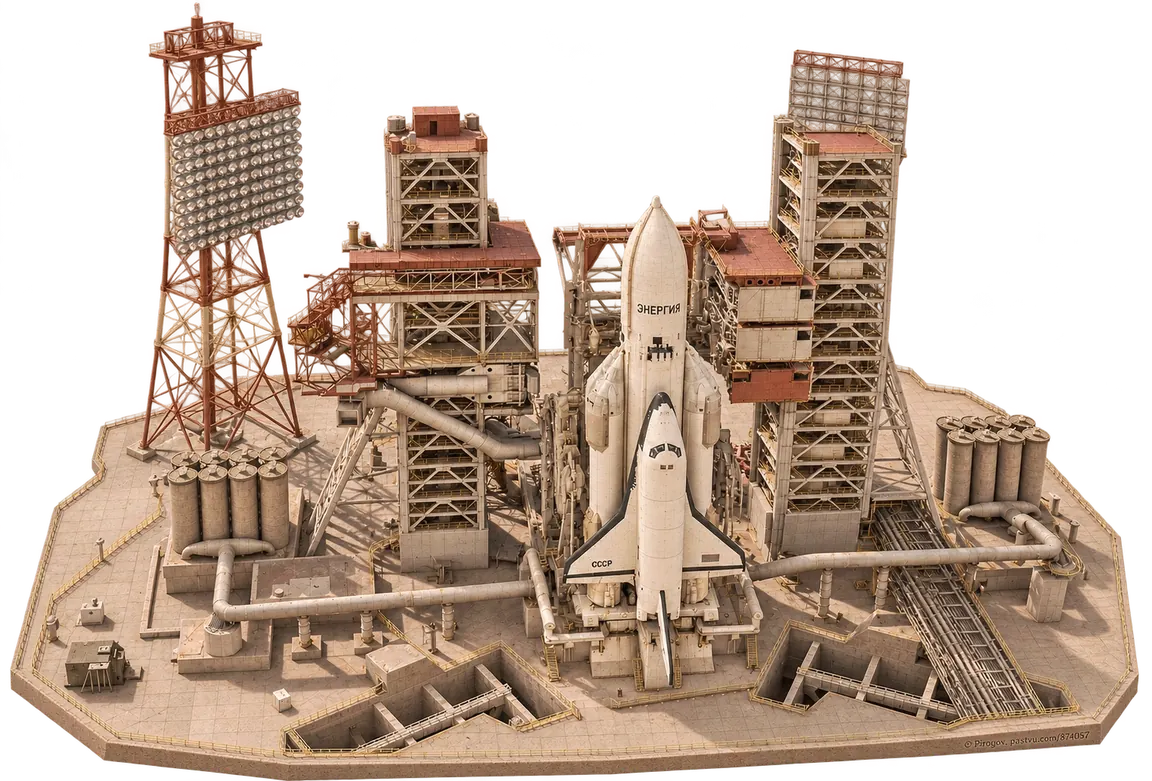
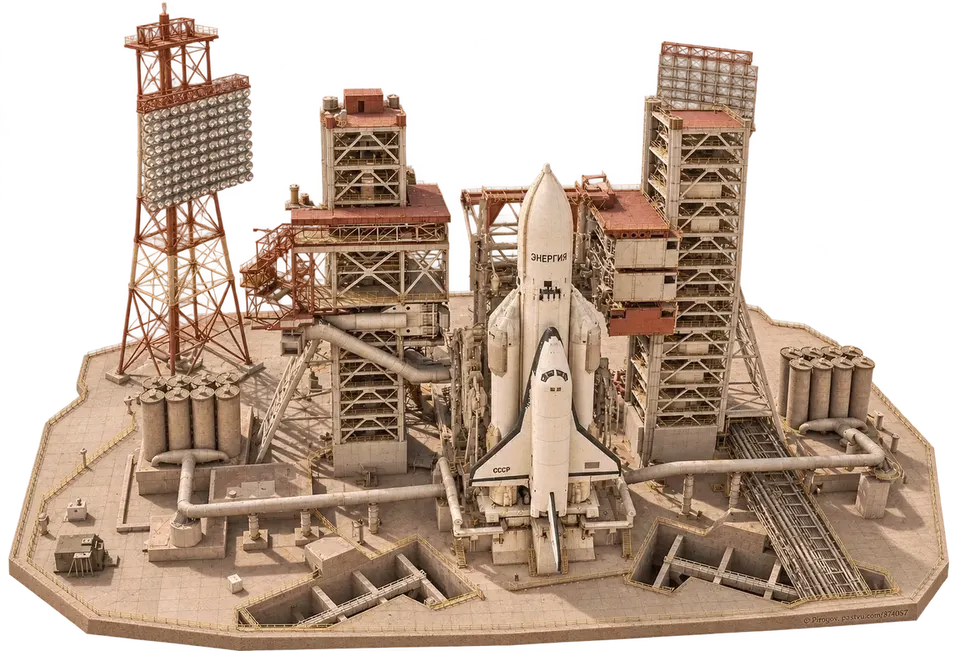
Optimize preloader images and match slogan to status font

Changed region(s): [[0.8438, 0.8602, 0.875, 0.8909]]

diff --git a/preloader.html b/preloader.html
@@ -4,12 +4,12 @@
 <meta name="robots" content="noindex"><meta name="theme-color" content="#f3f0e7">
 <title>Гранд-макет Байконур — экран загрузки</title>
 <meta name="description" content="Гранд-макет Байконур: интерактивный музей 3D. Предпросмотр экрана загрузки с тематической галереей.">
-<link rel="preload" as="image" href="./assets/preloader/soyuz-launch-20261103.webp" type="image/webp" fetchpriority="high">
+<link rel="preload" as="image" href="./assets/preloader/soyuz-launch-20261103.webp?v=20261114" type="image/webp" fetchpriority="high">
 <link rel="preload" as="style" href="https://fonts.googleapis.com/css2?family=Montserrat:wght@400;500;600;700;800;900&amp;display=swap" onload="this.onload=null;this.rel='stylesheet'">
 <style>@font-face{font-family:'Bounded';src:url('https://cdn.jsdelivr.net/gh/churkinvlad/Bounded@main/Variable/Bounded-Variable.ttf') format('truetype');font-style:normal;font-weight:200 900;font-display:swap;}
 *{box-sizing:border-box}html,body{margin:0;height:100%;background:#f3f0e7;color:#10242d;font-family:Montserrat,Arial,sans-serif}body{overflow:hidden}
 </style>
-<link rel="stylesheet" href="./src/museum-preloader.css?v=20261105-preloader-gallery-v16">
+<link rel="stylesheet" href="./src/museum-preloader.css?v=20261114-preloader-optimized-v17">
 
 </head><body>
 <section id="museumLoading" data-preview="true" class="museum-loading preloader preloader--gallery" data-state="loading" data-launch-step="0" data-motion="running" aria-label="Предпросмотр прелоадера Байконура">
@@ -49,12 +49,12 @@
           </div>
         </header>
         <div id="museumPreloaderGallery" class="preloader__gallery" aria-hidden="true">
-          <img class="preloader__image is-active" data-image="0" src="./assets/preloader/soyuz-launch-20261103.webp" width="1152" height="768" alt="" decoding="async" loading="eager" fetchpriority="high">
-          <img class="preloader__image" data-image="1" src="./assets/preloader/energia-buran-20261103.webp" width="1152" height="781" alt="" decoding="async" fetchpriority="low">
-          <img class="preloader__image" data-image="2" src="./assets/preloader/tracking-station-20261103.webp" width="1152" height="576" alt="" decoding="async" fetchpriority="low">
-          <img class="preloader__image" data-image="3" src="./assets/preloader/proton-rollout-20261103.webp" width="1152" height="768" alt="" decoding="async" fetchpriority="low">
-          <img class="preloader__image" data-image="4" src="./assets/preloader/launch-complex-20261105.webp" width="1573" height="1000" alt="" decoding="async" fetchpriority="low">
-          <img class="preloader__image" data-image="5" src="./assets/preloader/buran-hangar-20261105.webp" width="1672" height="941" alt="" decoding="async" fetchpriority="low">
+          <img class="preloader__image is-active" data-image="0" src="./assets/preloader/soyuz-launch-20261103.webp?v=20261114" width="960" height="640" alt="" decoding="async" loading="eager" fetchpriority="high">
+          <img class="preloader__image" data-image="1" src="./assets/preloader/energia-buran-20261103.webp?v=20261114" width="960" height="651" alt="" decoding="async" fetchpriority="low">
+          <img class="preloader__image" data-image="2" src="./assets/preloader/tracking-station-20261103.webp?v=20261114" width="960" height="480" alt="" decoding="async" fetchpriority="low">
+          <img class="preloader__image" data-image="3" src="./assets/preloader/proton-rollout-20261103.webp?v=20261114" width="960" height="640" alt="" decoding="async" fetchpriority="low">
+          <img class="preloader__image" data-image="4" src="./assets/preloader/launch-complex-20261105.webp?v=20261114" width="960" height="610" alt="" decoding="async" fetchpriority="low">
+          <img class="preloader__image" data-image="5" src="./assets/preloader/buran-hangar-20261105.webp?v=20261114" width="960" height="540" alt="" decoding="async" fetchpriority="low">
         </div>
       </div>
       <p id="museumPreloaderSlogan" class="preloader__claim">КОСМОС НАЧИНАЕТСЯ С НАЗЕМКИ</p>

diff --git a/workshop.html b/workshop.html
@@ -1,7 +1,7 @@
 <!doctype html><html lang="ru"><head><!-- EVENING_NAVIGATION_V1 --><script>/* PUBLIC_MUSEUM_DEFAULT */if((location.pathname.endsWith('/')||location.pathname.endsWith('/index.html'))&&!location.search&&!location.hash)location.replace('./museum.html');</script><meta charset="utf-8"><script>if(location.protocol==='http:'&&location.hostname==='museum.rockettrip.space'){const secureUrl=new URL(location.href);secureUrl.protocol='https:';location.replace(secureUrl.href);}</script><meta name="viewport" content="width=device-width,initial-scale=1"><title>Мастерская — Байконур 3D</title>
-<link rel="preload" as="image" href="./assets/preloader/soyuz-launch-20261103.webp" type="image/webp" fetchpriority="high">
+<link rel="preload" as="image" href="./assets/preloader/soyuz-launch-20261103.webp?v=20261114" type="image/webp" fetchpriority="high">
 <link rel="stylesheet" href="./src/museum-mobile.css?v=20261103-mobile-v1">
-<link rel="stylesheet" href="./src/museum-preloader.css?v=20261105-preloader-gallery-v16">
+<link rel="stylesheet" href="./src/museum-preloader.css?v=20261114-preloader-optimized-v17">
 <link rel="modulepreload" href="./src/vendor/three-r160/build/three.module.js" fetchpriority="low">
 <link rel="preload" as="image" href="./assets/terrain/satellite-single-pass-preview-v1.jpg" crossorigin="anonymous" fetchpriority="low">
 <link rel="preload" as="image" href="./assets/terrain/satellite-expansion-preview-v1.jpg" crossorigin="anonymous" fetchpriority="low">
@@ -532,12 +532,12 @@ body.following-arrival #labelLayer{display:none!important}
           </div>
         </header>
         <div id="museumPreloaderGallery" class="preloader__gallery" aria-hidden="true">
-          <img class="preloader__image is-active" data-image="0" src="./assets/preloader/soyuz-launch-20261103.webp" width="1152" height="768" alt="" decoding="async" loading="eager" fetchpriority="high">
-          <img class="preloader__image" data-image="1" src="./assets/preloader/energia-buran-20261103.webp" width="1152" height="781" alt="" decoding="async" fetchpriority="low">
-          <img class="preloader__image" data-image="2" src="./assets/preloader/tracking-station-20261103.webp" width="1152" height="576" alt="" decoding="async" fetchpriority="low">
-          <img class="preloader__image" data-image="3" src="./assets/preloader/proton-rollout-20261103.webp" width="1152" height="768" alt="" decoding="async" fetchpriority="low">
-          <img class="preloader__image" data-image="4" src="./assets/preloader/launch-complex-20261105.webp" width="1573" height="1000" alt="" decoding="async" fetchpriority="low">
-          <img class="preloader__image" data-image="5" src="./assets/preloader/buran-hangar-20261105.webp" width="1672" height="941" alt="" decoding="async" fetchpriority="low">
+          <img class="preloader__image is-active" data-image="0" src="./assets/preloader/soyuz-launch-20261103.webp?v=20261114" width="960" height="640" alt="" decoding="async" loading="eager" fetchpriority="high">
+          <img class="preloader__image" data-image="1" src="./assets/preloader/energia-buran-20261103.webp?v=20261114" width="960" height="651" alt="" decoding="async" fetchpriority="low">
+          <img class="preloader__image" data-image="2" src="./assets/preloader/tracking-station-20261103.webp?v=20261114" width="960" height="480" alt="" decoding="async" fetchpriority="low">
+          <img class="preloader__image" data-image="3" src="./assets/preloader/proton-rollout-20261103.webp?v=20261114" width="960" height="640" alt="" decoding="async" fetchpriority="low">
+          <img class="preloader__image" data-image="4" src="./assets/preloader/launch-complex-20261105.webp?v=20261114" width="960" height="610" alt="" decoding="async" fetchpriority="low">
+          <img class="preloader__image" data-image="5" src="./assets/preloader/buran-hangar-20261105.webp?v=20261114" width="960" height="540" alt="" decoding="async" fetchpriority="low">
         </div>
       </div>
       <p id="museumPreloaderSlogan" class="preloader__claim">КОСМОС НАЧИНАЕТСЯ С НАЗЕМКИ</p>

diff --git a/index.html b/index.html
@@ -1,7 +1,7 @@
 <!doctype html><html lang="ru"><head><!-- EVENING_NAVIGATION_V1 --><meta charset="utf-8"><script>if(location.protocol==='http:'&&location.hostname==='museum.rockettrip.space'){const secureUrl=new URL(location.href);secureUrl.protocol='https:';location.replace(secureUrl.href);}</script><meta name="viewport" content="width=device-width,initial-scale=1"><title>БАЙКОНУР 3D — виртуальный музей</title>
-<link rel="preload" as="image" href="./assets/preloader/soyuz-launch-20261103.webp" type="image/webp" fetchpriority="high">
+<link rel="preload" as="image" href="./assets/preloader/soyuz-launch-20261103.webp?v=20261114" type="image/webp" fetchpriority="high">
 <link rel="stylesheet" href="./src/museum-mobile.css?v=20261103-mobile-v1">
-<link rel="stylesheet" href="./src/museum-preloader.css?v=20261105-preloader-gallery-v16">
+<link rel="stylesheet" href="./src/museum-preloader.css?v=20261114-preloader-optimized-v17">
 <link rel="modulepreload" href="./src/vendor/three-r160/build/three.module.js" fetchpriority="low">
 <link rel="preload" as="image" href="./assets/terrain/satellite-single-pass-preview-v1.jpg" crossorigin="anonymous" fetchpriority="low">
 <link rel="preload" as="image" href="./assets/terrain/satellite-expansion-preview-v1.jpg" crossorigin="anonymous" fetchpriority="low">
@@ -529,12 +529,12 @@ body.following-arrival #labelLayer{display:none!important}
           </div>
         </header>
         <div id="museumPreloaderGallery" class="preloader__gallery" aria-hidden="true">
-          <img class="preloader__image is-active" data-image="0" src="./assets/preloader/soyuz-launch-20261103.webp" width="1152" height="768" alt="" decoding="async" loading="eager" fetchpriority="high">
-          <img class="preloader__image" data-image="1" src="./assets/preloader/energia-buran-20261103.webp" width="1152" height="781" alt="" decoding="async" fetchpriority="low">
-          <img class="preloader__image" data-image="2" src="./assets/preloader/tracking-station-20261103.webp" width="1152" height="576" alt="" decoding="async" fetchpriority="low">
-          <img class="preloader__image" data-image="3" src="./assets/preloader/proton-rollout-20261103.webp" width="1152" height="768" alt="" decoding="async" fetchpriority="low">
-          <img class="preloader__image" data-image="4" src="./assets/preloader/launch-complex-20261105.webp" width="1573" height="1000" alt="" decoding="async" fetchpriority="low">
-          <img class="preloader__image" data-image="5" src="./assets/preloader/buran-hangar-20261105.webp" width="1672" height="941" alt="" decoding="async" fetchpriority="low">
+          <img class="preloader__image is-active" data-image="0" src="./assets/preloader/soyuz-launch-20261103.webp?v=20261114" width="960" height="640" alt="" decoding="async" loading="eager" fetchpriority="high">
+          <img class="preloader__image" data-image="1" src="./assets/preloader/energia-buran-20261103.webp?v=20261114" width="960" height="651" alt="" decoding="async" fetchpriority="low">
+          <img class="preloader__image" data-image="2" src="./assets/preloader/tracking-station-20261103.webp?v=20261114" width="960" height="480" alt="" decoding="async" fetchpriority="low">
+          <img class="preloader__image" data-image="3" src="./assets/preloader/proton-rollout-20261103.webp?v=20261114" width="960" height="640" alt="" decoding="async" fetchpriority="low">
+          <img class="preloader__image" data-image="4" src="./assets/preloader/launch-complex-20261105.webp?v=20261114" width="960" height="610" alt="" decoding="async" fetchpriority="low">
+          <img class="preloader__image" data-image="5" src="./assets/preloader/buran-hangar-20261105.webp?v=20261114" width="960" height="540" alt="" decoding="async" fetchpriority="low">
         </div>
       </div>
       <p id="museumPreloaderSlogan" class="preloader__claim">КОСМОС НАЧИНАЕТСЯ С НАЗЕМКИ</p>

diff --git a/museum.html b/museum.html
@@ -1,7 +1,7 @@
 <!doctype html><html lang="ru"><head><!-- EVENING_NAVIGATION_V1 --><meta charset="utf-8"><script>if(location.protocol==='http:'&&location.hostname==='museum.rockettrip.space'){const secureUrl=new URL(location.href);secureUrl.protocol='https:';location.replace(secureUrl.href);}</script><meta name="viewport" content="width=device-width,initial-scale=1"><title>БАЙКОНУР 3D — виртуальный музей</title>
-<link rel="preload" as="image" href="./assets/preloader/soyuz-launch-20261103.webp" type="image/webp" fetchpriority="high">
+<link rel="preload" as="image" href="./assets/preloader/soyuz-launch-20261103.webp?v=20261114" type="image/webp" fetchpriority="high">
 <link rel="stylesheet" href="./src/museum-mobile.css?v=20261103-mobile-v1">
-<link rel="stylesheet" href="./src/museum-preloader.css?v=20261105-preloader-gallery-v16">
+<link rel="stylesheet" href="./src/museum-preloader.css?v=20261114-preloader-optimized-v17">
 <link rel="modulepreload" href="./src/vendor/three-r160/build/three.module.js" fetchpriority="low">
 <link rel="preload" as="image" href="./assets/terrain/satellite-single-pass-preview-v1.jpg" crossorigin="anonymous" fetchpriority="low">
 <link rel="preload" as="image" href="./assets/terrain/satellite-expansion-preview-v1.jpg" crossorigin="anonymous" fetchpriority="low">
@@ -529,12 +529,12 @@ body.following-arrival #labelLayer{display:none!important}
           </div>
         </header>
         <div id="museumPreloaderGallery" class="preloader__gallery" aria-hidden="true">
-          <img class="preloader__image is-active" data-image="0" src="./assets/preloader/soyuz-launch-20261103.webp" width="1152" height="768" alt="" decoding="async" loading="eager" fetchpriority="high">
-          <img class="preloader__image" data-image="1" src="./assets/preloader/energia-buran-20261103.webp" width="1152" height="781" alt="" decoding="async" fetchpriority="low">
-          <img class="preloader__image" data-image="2" src="./assets/preloader/tracking-station-20261103.webp" width="1152" height="576" alt="" decoding="async" fetchpriority="low">
-          <img class="preloader__image" data-image="3" src="./assets/preloader/proton-rollout-20261103.webp" width="1152" height="768" alt="" decoding="async" fetchpriority="low">
-          <img class="preloader__image" data-image="4" src="./assets/preloader/launch-complex-20261105.webp" width="1573" height="1000" alt="" decoding="async" fetchpriority="low">
-          <img class="preloader__image" data-image="5" src="./assets/preloader/buran-hangar-20261105.webp" width="1672" height="941" alt="" decoding="async" fetchpriority="low">
+          <img class="preloader__image is-active" data-image="0" src="./assets/preloader/soyuz-launch-20261103.webp?v=20261114" width="960" height="640" alt="" decoding="async" loading="eager" fetchpriority="high">
+          <img class="preloader__image" data-image="1" src="./assets/preloader/energia-buran-20261103.webp?v=20261114" width="960" height="651" alt="" decoding="async" fetchpriority="low">
+          <img class="preloader__image" data-image="2" src="./assets/preloader/tracking-station-20261103.webp?v=20261114" width="960" height="480" alt="" decoding="async" fetchpriority="low">
+          <img class="preloader__image" data-image="3" src="./assets/preloader/proton-rollout-20261103.webp?v=20261114" width="960" height="640" alt="" decoding="async" fetchpriority="low">
+          <img class="preloader__image" data-image="4" src="./assets/preloader/launch-complex-20261105.webp?v=20261114" width="960" height="610" alt="" decoding="async" fetchpriority="low">
+          <img class="preloader__image" data-image="5" src="./assets/preloader/buran-hangar-20261105.webp?v=20261114" width="960" height="540" alt="" decoding="async" fetchpriority="low">
         </div>
       </div>
       <p id="museumPreloaderSlogan" class="preloader__claim">КОСМОС НАЧИНАЕТСЯ С НАЗЕМКИ</p>

diff --git a/src/museum-preloader.css b/src/museum-preloader.css
@@ -27,7 +27,7 @@
 #museumLoading .preloader__phrases{display:grid;position:relative;min-width:0;align-items:center}
 #museumLoading .preloader__phrase{grid-area:1/1;min-width:0;margin:0;font:600 var(--pl-feature)/var(--pl-feature-line) Montserrat,Arial,sans-serif;letter-spacing:-.025em;text-wrap:balance;opacity:0;transform:translateY(14px);transition:opacity 320ms ease,transform 650ms cubic-bezier(.22,.61,.36,1);pointer-events:none}
 #museumLoading .preloader__phrase.is-active{opacity:1;transform:translateY(0);transition-delay:160ms;pointer-events:auto}
-#museumLoading .preloader__claim{grid-column:1;grid-row:3;align-self:end;min-width:0;margin:0;color:#54616a;font:600 var(--pl-claim)/var(--pl-claim-line) Montserrat,Arial,sans-serif;letter-spacing:.08em;text-transform:uppercase}
+#museumLoading .preloader__claim{grid-column:1;grid-row:3;align-self:end;min-width:0;margin:0;color:#54616a;font:600 var(--pl-status)/var(--pl-status-line) Montserrat,Arial,sans-serif;letter-spacing:.08em;text-transform:uppercase}
 #museumLoading .preloader__scene{position:relative;grid-column:2;grid-row:1 / span 3;align-self:stretch;min-width:0;min-height:0;overflow:hidden;background:var(--poster-paper)}
 #museumLoading .preloader__gallery{position:absolute;inset:0;isolation:isolate;overflow:hidden}
 #museumLoading .preloader__image{position:absolute;inset:0;display:block;width:100%;height:100%;object-fit:contain;object-position:center;opacity:0;transition:opacity 700ms ease;pointer-events:none;color:transparent}

diff --git a/docs/CURRENT_WORK.md b/docs/CURRENT_WORK.md
@@ -34,3 +34,6 @@ Source artifact14038281047:266 модулей/3 входных страницы 
 
 ## Процесс
 Читать текущую сводку и нужные исходники, не всю историю. Один узкий набор изменений, профильные проверки и просмотр снимка, точная публикация и сверка публичных файлов. Единственный издатель —Pages,CI не пишет main. Не создавать workflow ради скрытия площадок. Не повторять проверки до зелёного без анализа причины. Внизу отчёта — музей/админка; четыре кратких направления без выдуманных агентов.
+
+## 14.11.2026 — оптимизация прелоадера
+Шесть используемых WebP перекодированы из исходных файлов Git в 960 px по ширине, quality78/method4, с прозрачностью: 2 255 350 → 853 536 байт (−62,2%). Размеры img обновлены в index/museum/workshop; preload и src используют одинаковый cache key. Предпросмотр пересобран. Слоган использует --pl-status/--pl-status-line, как этапы загрузки, включая mobile. Галерея/интервалы и 3D не менялись. Source loading check и diff-check пройдены, просмотрены все шесть миниатюр. Публичная браузерная проверка выполняется после Pages. Прежние задачи и результаты выше сохранены.
